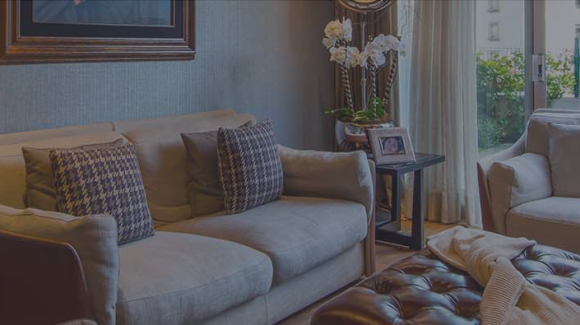
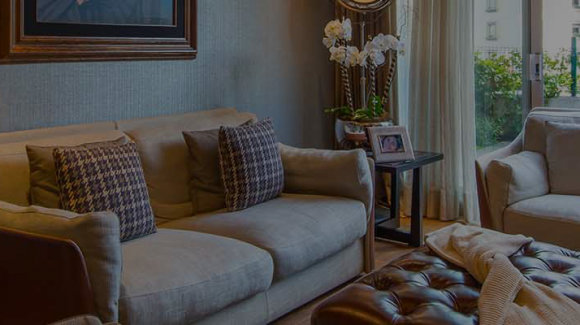
backgroun image fondo

diff --git a/wp-content/themes/interior-design/style.css b/wp-content/themes/interior-design/style.css
@@ -33,10 +33,6 @@ Tags: white, light, dark, one-column, two-columns, three-columns, four-columns, 
 /*-------------------------------------------------------------------------*/
 /*	Components	*/
 /*-------------------------------------------------------------------------*/
-.line-height--80 {
-	line-height: 80px;
-}
-
 .background-gray {
 	background-color: #eee;
 }
@@ -45,13 +41,29 @@ Tags: white, light, dark, one-column, two-columns, three-columns, four-columns, 
 	color: #f1cb00
 }
 
+.background-image {
+	min-height: 400px;
+}
+
+.margin-bottom--large {
+	margin-bottom: 40px;
+}
+
+.cmsms_row.background-image + .cmsms_row {
+	margin-top: 50px;
+}
+
+.text-transform--none,
+.text-transform--none h4 {
+	text-transform: none!important;
+}
+
 /*-------------------------------------------------------------------------*/
 /*	1.	Browser Reset	*/
 /*-------------------------------------------------------------------------*/
 html {
-    	background-image: url(http://localhost:8888/km-interiores/wp-content/uploads/2016/05/fondo-small.png)!important;
-	background-repeat: repeat;
-
+    	background-image: url(img/fondo-oscuro.jpg)!important;
+	background-repeat: repeat!important;
 }
 
 body {
@@ -219,7 +231,7 @@ h4,
 h5,
 h6 {
   font-weight: normal;
-  letter-spacing: 0.2em;	
+  letter-spacing: 0.2em;
 }
 ul,
 ol {
@@ -246,6 +258,10 @@ ol ol {
 }
 ul li {
   display: block;
+}
+#middle,
+#bottom {
+	border-color: transparent!important;
 }
 #middle {
   border-left-width: 0px;
@@ -422,6 +438,24 @@ input[type="submit"] {
   -webkit-appearance: button;
   cursor: pointer;
 }
+
+input[type=email],
+input[type=submit],
+textarea {
+	background-color: transparent!important;
+}
+input[type=text],
+input[type=email],
+textarea,
+div.wpcf7-validation-errors,
+div.wpcf7-mail-sent-ok {
+	color: #fff!important;
+}
+span.wpcf7-not-valid-tip {
+	color: #f1cb00;
+}
+
+
 input[type=text],
 input[type=email],
 input[type=password],
@@ -1771,7 +1805,7 @@ nav > div > ul a {
   padding: 0;
 }
 .headline {
-	margin-bottom: 40px; 
+	margin-bottom: 40px;
 }
 #page,
 #main,
@@ -5277,16 +5311,23 @@ button {
   left: 5px;
   right: 5px;
 }
+figure.cmsms_img_rollover_wrap:hover .cmsms_img_rollover {
+	background-color: rgba(0, 0, 0, 0.8)!important;
+}
 .portfolio .project .project_outer .project_inner {
-  padding: 10px 0 10px;
+  padding: 10px;
   position: relative;
   overflow: hidden;
+	background-color: #d9d6d3!important;
 }
 .portfolio .project .project_outer .project_inner .cmsms_project_header {
   position: relative;
 }
 .portfolio .project .project_outer .project_inner .cmsms_project_header .cmsms_project_title {
   margin: 0 0 -5px;
+}
+.portfolio .project .project_outer .project_inner .cmsms_project_header .cmsms_project_title a {
+	color: #444443!important;
 }
 .portfolio .project .project_outer .project_inner .cmsms_project_content {
   padding: 20px 0 0;
